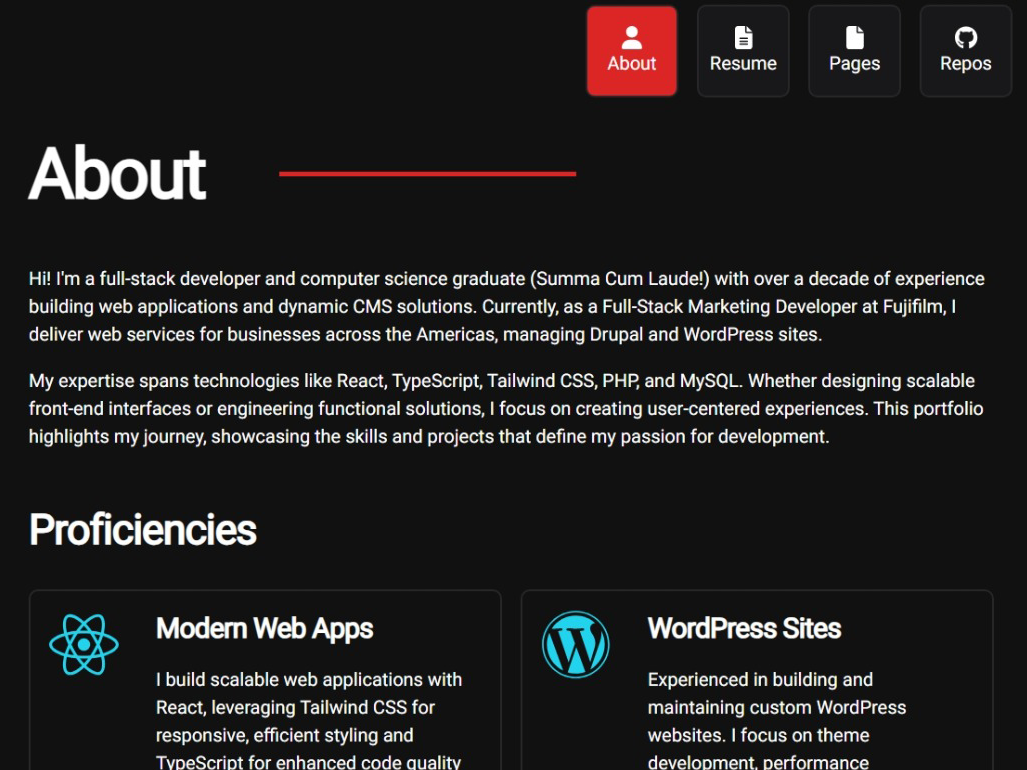
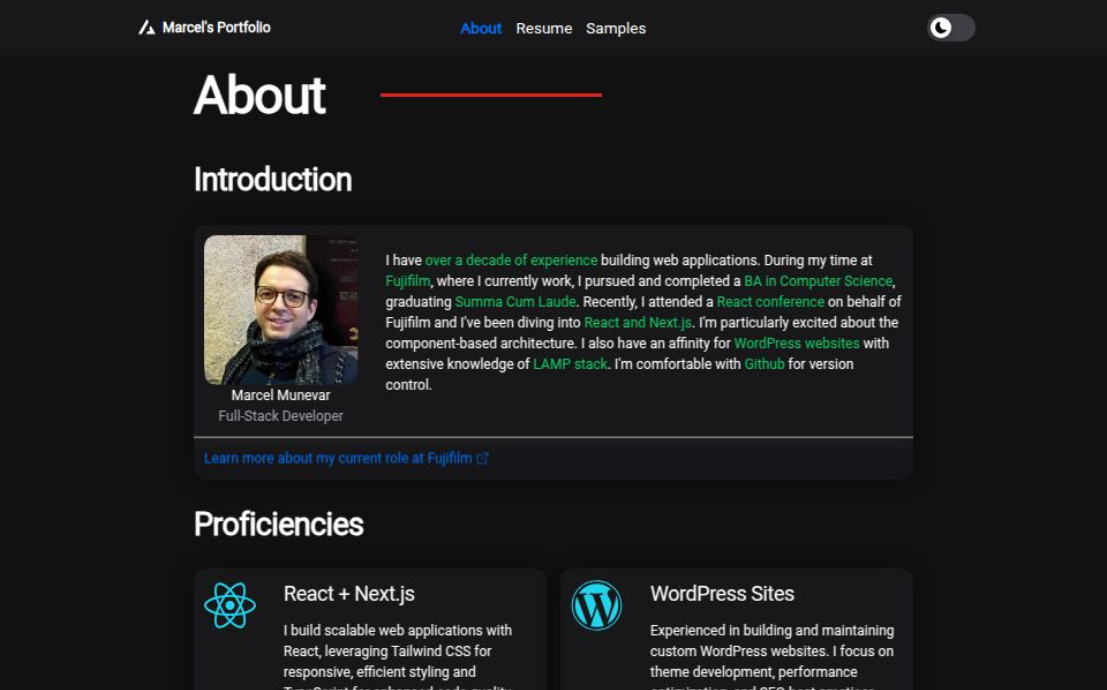
added content

diff --git a/src/app/page.tsx b/src/app/page.tsx
@@ -36,7 +36,6 @@ export default function Home() {
                 <div className="grid grid-cols-1 md:grid-cols-4 gap-8 items-center justify-items-center">
                   <div className="max-w-52 text-center">
                     <Image
-                      removeWrapper
                       alt="Portrait of Marcel"
                       className="w-100"
                       src="./marcel.png"
@@ -76,18 +75,14 @@ export default function Home() {
               </CardBody>
               <hr />
               <CardFooter>
-                <div>
-                  <p>
-                    <Link
-                      className="cursor-pointer"
-                      onPress={onOpen}
-                      showAnchorIcon
-                      color="primary"
-                    >
-                      Learn more about my current role at Fujifilm{" "}
-                    </Link>
-                  </p>
-                </div>
+                <Link
+                  className="cursor-pointer"
+                  onPress={onOpen}
+                  showAnchorIcon
+                  color="primary"
+                >
+                  Learn more about my current role at Fujifilm{" "}
+                </Link>
               </CardFooter>
             </Card>
           </div>
@@ -102,22 +97,30 @@ export default function Home() {
             CSS for responsive, efficient styling and TypeScript for enhanced
             code quality and scalability."
               icon={faReact}
+              footerText="See a code sample on Github."
+              footerLink="https://github.com/marcelmunevar/MY-PORTFOLIO"
             />
             <Proficiency
               heading="WordPress Sites"
               text="Experienced in building and maintaining custom WordPress websites. I focus on theme development, performance 
               optimization, and SEO best practices."
               icon={faWordpress}
+              footerText="See a code sample on Github."
+              footerLink="https://github.com/Fujifilm-By-Marcel/fujinon_theme"
             />
             <Proficiency
               heading="MySQL Databases"
               text="Skilled in designing and managing relational databases with MySQL and other SQL-based systems. Focused on optimizing queries, ensuring data integrity, and managing migrations."
               icon={faDatabase}
+              footerText="See a code sample on Github."
+              footerLink="https://github.com/FIU-By-Marcel/RESTAPI"
             />
             <Proficiency
               heading="Github Repositories"
               text="Adept in using GitHub for version control and managing code repositories. Proficient in branching, merging, and pull requests to streamline development workflows."
               icon={faGithub}
+              footerText="Visit my Github."
+              footerLink="https://github.com/marcelmunevar"
             />
             <Card>
               <CardBody>
@@ -140,7 +143,112 @@ export default function Home() {
             </Card>
           </div>
         </div>
-        <div className="container mx-auto px-8 max-w-2xl md:max-w-4xl lg:max-w-4xl mb-24"></div>
+        <div className="container mx-auto px-8 max-w-2xl md:max-w-4xl lg:max-w-4xl mb-12">
+          <Heading2 text="Clients" />
+          <Card>
+            <CardBody>
+              <div className="flex flex-col md:flex-row gap-4 flex-wrap items-center">
+                <div className="p-6 bg-white w-full md:w-auto rounded-xl flex-grow">
+                  <Image
+                    src="./FUJIFILM.jpg"
+                    className="h-12 m-auto"
+                    radius="none"
+                    removeWrapper={true}
+                  />
+                </div>
+                <div className="p-6 bg-white w-full md:w-auto rounded-xl flex-grow">
+                  <Image
+                    src="./instax.svg"
+                    className="h-12 m-auto"
+                    radius="none"
+                    removeWrapper={true}
+                  />
+                </div>
+                <div className="p-6 bg-white w-full md:w-auto rounded-xl flex-grow">
+                  <Image
+                    src="./fujifilm-X-GFX.png"
+                    className="h-12 m-auto"
+                    radius="none"
+                    removeWrapper={true}
+                  />
+                </div>
+                <div className="p-4 bg-white w-full md:w-auto rounded-xl flex-grow">
+                  <Image
+                    src="./fujinon_logo.png"
+                    className="h-16 m-auto"
+                    radius="none"
+                    removeWrapper={true}
+                  />
+                </div>
+              </div>
+            </CardBody>
+          </Card>
+        </div>
+        <div className="container mx-auto px-8 max-w-2xl md:max-w-4xl lg:max-w-4xl mb-24">
+          <Heading2 text="Tech" />
+          <Card>
+            <CardBody>
+              <div className="flex flex-col md:flex-row gap-4 flex-wrap items-center ">
+                <div className="p-2 bg-white w-full md:w-auto rounded-xl flex-grow">
+                  <Image
+                    src="./html.jpg"
+                    className="h-18 m-auto"
+                    radius="none"
+                    removeWrapper={true}
+                  />
+                </div>
+                <div className="p-2 bg-white w-full md:w-auto rounded-xl flex-grow">
+                  <Image
+                    src="./css.jpg"
+                    className="h-18 m-auto"
+                    radius="none"
+                    removeWrapper={true}
+                  />
+                </div>
+                <div className="p-2 bg-white w-full md:w-auto rounded-xl  flex-grow">
+                  <Image
+                    src="./js.jpg"
+                    className="h-18 m-auto"
+                    radius="none"
+                    removeWrapper={true}
+                  />
+                </div>
+                <div className="p-1 bg-white w-full md:w-auto rounded-xl flex-grow">
+                  <Image
+                    src="./jquery.jpg"
+                    className="h-28 m-auto"
+                    radius="none"
+                    removeWrapper={true}
+                  />
+                </div>
+                <div className="p-1 bg-white w-full md:w-auto rounded-xl flex-grow">
+                  <Image
+                    src="./php.jpg"
+                    className="h-28 m-auto"
+                    radius="none"
+                    removeWrapper={true}
+                  />
+                </div>
+                <div className="p-1 bg-white w-full md:w-auto rounded-xl flex-grow">
+                  <Image
+                    src="./mysql.jpg"
+                    className="h-28 m-auto"
+                    radius="none"
+                    removeWrapper={true}
+                  />
+                </div>
+                <div className="p-1 bg-white w-full md:w-auto rounded-xl flex-grow">
+                  <Image
+                    src="./bootstrap.png"
+                    className="h-28 m-auto"
+                    radius="none"
+                    removeWrapper={true}
+                  />
+                </div>
+              </div>
+            </CardBody>
+          </Card>
+        </div>
         <Drawer isOpen={isOpen} onOpenChange={onOpenChange}>
           <DrawerContent>
             {(onClose) => (

diff --git a/src/app/components/Proficiency.tsx b/src/app/components/Proficiency.tsx
@@ -2,15 +2,24 @@ import React from "react";
 import Heading3 from "./Heading-3";
 import { FontAwesomeIcon } from "@fortawesome/react-fontawesome";
 import { IconDefinition } from "@fortawesome/fontawesome-svg-core";
-import { Card, CardBody } from "@nextui-org/card";
+import { Card, CardBody, CardFooter } from "@nextui-org/card";
+import { Link } from "@nextui-org/link";
 
 interface ProficiencyProps {
   heading: string;
   text: string;
   icon: IconDefinition;
+  footerText?: string;
+  footerLink?: string;
 }
 
-const Proficiency: React.FC<ProficiencyProps> = ({ text, heading, icon }) => {
+const Proficiency: React.FC<ProficiencyProps> = ({
+  text,
+  heading,
+  icon,
+  footerText,
+  footerLink,
+}) => {
   return (
     <Card className="mb-4">
       <CardBody>
@@ -24,6 +33,24 @@ const Proficiency: React.FC<ProficiencyProps> = ({ text, heading, icon }) => {
           </div>
         </div>
       </CardBody>
+      {footerText || footerLink ? (
+        <>
+          <hr />
+          <CardFooter>
+            <Link
+              className="cursor-pointer"
+              showAnchorIcon
+              color="primary"
+              href={footerLink}
+              target="_blank"
+            >
+              {footerText}{" "}
+            </Link>
+          </CardFooter>
+        </>
+      ) : (
+        false
+      )}
     </Card>
   );
 };
